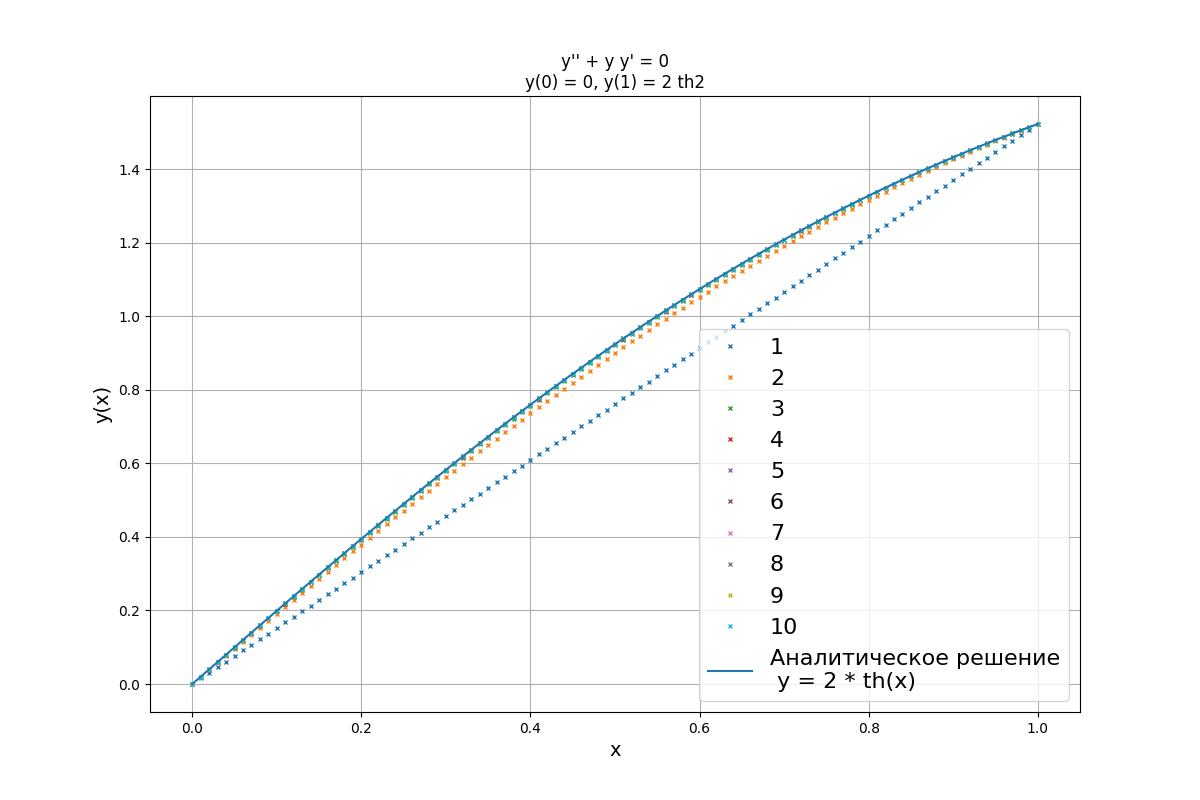
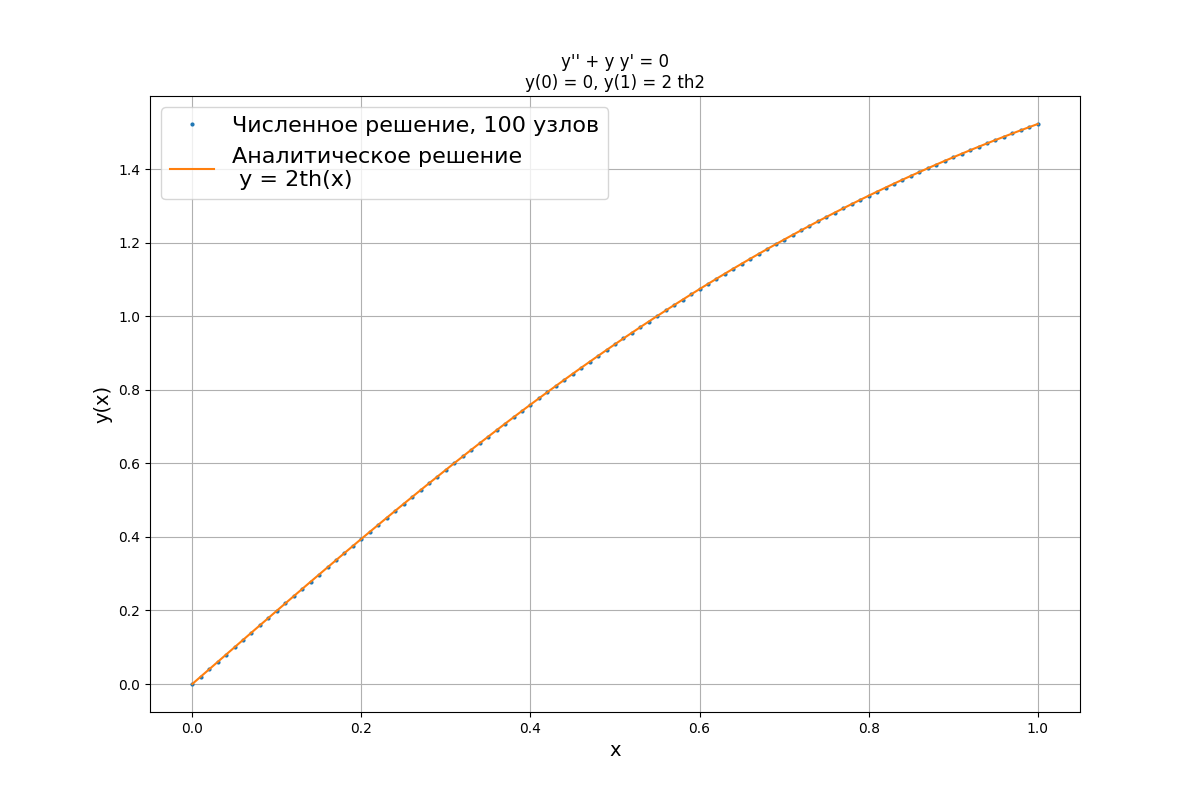
Update Non linear bvp solver and tests

diff --git a/tests/test_nonlinear_bvp3.cpp b/tests/test_nonlinear_bvp3.cpp
@@ -8,10 +8,10 @@
 #include "functional"
 #include <cmath>
 #include <fstream>
-#include <algorithm>
 
-TEST(NONLINEARBOUNDARYVALUEPROBLEM1, TEST1) {
-std::function<double(double)> f = [](double x) { return 0.; };
+
+TEST(NONLINEARBOUNDARYVALUEPROBLEM1, NONLINEARBOUNDARYVALUEPROBLEM1) {
+std::function<double(double, double)> f = [](double x, double y) { return 0.; };
 
 std::function<double(double, double, double)> a = [](double x, double y, double y_dev) { return y; };
 
@@ -24,7 +24,7 @@ double right_bound_x = 1.;
 double left_bound_y = 0.;
 double right_bound_y = 2. * tanh(1.);
 
-int n_iterations = 10;
+int n_iterations = 7;
 int max_number_of_splits = 100;
 std::vector<double> y(max_number_of_splits + 1);
 double h = (right_bound_x - left_bound_x)/max_number_of_splits;
@@ -33,11 +33,11 @@ std::fstream file;
 file.open("test_nonlin_3.txt", std::fstream::out);
 
 //x
-for(int j=0; j < y.size(); ++j){
-    file << left_bound_x + h * j << " ";
-}
-file << '\n';
-
+//for(int j=0; j < y.size(); ++j){
+//    file << left_bound_x + h * j << " ";
+//}
+//file << '\n';
+//
 //analytical solution
 for(int i = 0; i < y.size(); ++i){
 y[i] = y_func(left_bound_x + h * i);
@@ -45,96 +45,140 @@ file << y[i] << " ";
 }
 file << '\n';
 
+//for(int k = 10; k < max_number_of_splits; k+=10){
+    std::pair<std::vector<double>, std::vector<double>> solution;
 
-std::vector<std::vector<double>> solution(n_iterations);
-
-std::vector<double> y_0 = InitialApproach(left_bound_x, right_bound_x,
-                    left_bound_y, right_bound_y,
-                    max_number_of_splits);
+    std::pair<std::vector<double>, std::vector<double>> y_0_y_0_der = InitialApproach(left_bound_x, right_bound_x,
+                                                                                      left_bound_y, right_bound_y,
+                                                                                      max_number_of_splits);
 
 //approach
-solution[0] = y_0;
-for(int j=0; j < y.size(); ++j){
-        file << solution[0][j] << " ";
-}
-file << '\n';
+    solution = y_0_y_0_der;
 
-for(int i = 1; i < n_iterations; ++i){
-    std::pair<Slae::Matrix::ThreeDiagonalMatrix, std::vector<double>> matrix =
-            ExpMatrixNonLinearBVP3(left_bound_x, right_bound_x,
-                                   left_bound_y, right_bound_y,
-                                   max_number_of_splits, a, b, f, solution[i-1]);
-    solution[i] = Slae::Solvers::solveThreeDiagonal(matrix.first, matrix.second);
-    for(int j=0; j < y.size(); ++j){
-        file << solution[i][j] << " ";
+    for(int i = 1; i < n_iterations; ++i){
+        std::pair<Slae::Matrix::ThreeDiagonalMatrix, std::vector<double>> matrix =
+                ExpMatrixNonLinearBVP3(left_bound_x, right_bound_x,
+                                       left_bound_y, right_bound_y,
+                                       max_number_of_splits, a, b, f, solution);
+        solution.first = Slae::Solvers::solveThreeDiagonal(matrix.first, matrix.second);
     }
-    file << '\n';
-}
+    for(int i = 0; i < solution.first.size(); ++i){
+        file<< solution.first[i]<< " ";
+
+    }
+    file<<"\n";
+    for(int i = 0; i < solution.first.size(); ++i){
+
+        file << left_bound_x + h * i << " ";
+    }
+    file<<"\n";
+//}
+
 
 file.close();
 }
 
-TEST(NONLINEARBOUNDARYVALUEPROBLEM2, TEST2) {
-    std::function<double(double)> f = [](double x) { return 0.; };
+TEST(NONLINEARBOUNDARYVALUEPROBLEM_ERROR2, NONLINEARBOUNDARYVALUEPROBLEM_ERROR2) {
+    std::function<double(double, double)> f = [](double x, double y) { return -1/(2*y); };
 
-    std::function<double(double, double, double)> a = [](double x, double y, double y_dev) { return -exp(y); };
+    std::function<double(double, double, double)> a = [](double x, double y, double y_der) { return 1/(2*y) * y_der; };
 
-    std::function<double(double, double, double)> b = [](double x, double y, double y_dev) { return 0.; };
+    std::function<double(double, double, double)> b = [](double x, double y, double y_der) { return 0.; };
 
-    std::function<double(double)> y_func = [](double x) { return -log(2. * exp(log(-x)) - 1); };
 
-    double left_bound_x = -1./4;
-    double right_bound_x = 1./4;
-    double left_bound_y = y_func(left_bound_x);
-    double right_bound_y = y_func(right_bound_x);
+    double left_bound_x = 0.;
+    double right_bound_x = 5.;
+    double left_bound_y = 1.;
+    double right_bound_y = 6.;
 
-    int n_iterations = 10;
-    int max_number_of_splits = 100;
+    int n_iterations = 7;
+    int max_number_of_splits = 200;
     std::vector<double> y(max_number_of_splits + 1);
     double h = (right_bound_x - left_bound_x)/max_number_of_splits;
 
     std::fstream file;
     file.open("test_nonlin_3_2.txt", std::fstream::out);
 
-//x
-    for(int j=0; j < y.size(); ++j){
-        file << left_bound_x + h * j << " ";
-    }
-    file << '\n';
 
-//analytical solution
-    for(int i = 0; i < y.size(); ++i){
-        y[i] = y_func(left_bound_x + h * i);
-        file << y[i] << " ";
-    }
-    file << '\n';
+for(int k = 10; k < max_number_of_splits; k+=10) {
+    std::pair<std::vector<double>, std::vector<double>> solution;
 
-
-    std::vector<std::vector<double>> solution(n_iterations);
-
-    std::vector<double> y_0 = InitialApproach(left_bound_x, right_bound_x,
-                                              left_bound_y, right_bound_y,
-                                              max_number_of_splits);
+    std::pair<std::vector<double>, std::vector<double>> y_0_y_0_der = InitialApproach(left_bound_x, right_bound_x,
+                                                                                      left_bound_y, right_bound_y,
+                                                                                      k);
 
 //approach
-    solution[0] = y_0;
-    for(int j=0; j < y.size(); ++j){
-        file << solution[0][j] << " ";
-    }
-    file << '\n';
+    solution = y_0_y_0_der;
 
-    for(int i = 1; i < n_iterations; ++i){
+    for (int i = 0; i < n_iterations; ++i) {
         std::pair<Slae::Matrix::ThreeDiagonalMatrix, std::vector<double>> matrix =
                 ExpMatrixNonLinearBVP3(left_bound_x, right_bound_x,
                                        left_bound_y, right_bound_y,
-                                       max_number_of_splits, a, b, f, solution[i-1]);
-        solution[i] = Slae::Solvers::solveThreeDiagonal(matrix.first, matrix.second);
-        for(int j=0; j < y.size(); ++j){
-            file << solution[i][j] << " ";
-        }
-        file << '\n';
+                                       k, a, b, f, solution);
+        solution.first = Slae::Solvers::solveThreeDiagonal(matrix.first, matrix.second);
+        solution.second = y_der(solution.first, k);
     }
-
+    std::vector<double> err(k);
+    for(int i=0; i<k; i++){
+        err[i] = abs(solution.first[i] - y[i]);
+    }
+    double max = *std::max_element(err.begin(), err.end());
+    file << k << " "<< max << " ";
+    file << std::endl;
+}
     file.close();
 }
 
+TEST(NONLINEARBOUNDARYVALUEPROBLEM3, NONLINEARBOUNDARYVALUEPROBLEM3) {
+    std::function<double(double, double)> f = [](double x, double y) { return -1/(2*y); };
+
+    std::function<double(double, double, double)> a = [](double x, double y, double y_der) { return 1/(2*y) * y_der; };
+
+    std::function<double(double, double, double)> b = [](double x, double y, double y_der) { return 0.; };
+
+
+    double left_bound_x = 0.;
+    double right_bound_x = 5.;
+    double left_bound_y = 1.;
+    double right_bound_y = 6.;
+
+    int n_iterations = 7;
+    int max_number_of_splits = 200;
+    std::vector<double> y(max_number_of_splits + 1);
+    double h = (right_bound_x - left_bound_x)/max_number_of_splits;
+
+    std::fstream file;
+    file.open("test_nonlin_3_3.txt", std::fstream::out);
+
+//x
+for(int j=0; j < y.size(); ++j){
+    file << left_bound_x + h * j << " ";
+}
+file << '\n';
+
+//for(int k = 10; k < max_number_of_splits; k+=10){
+std::pair<std::vector<double>, std::vector<double>> solution;
+
+std::pair<std::vector<double>, std::vector<double>> y_0_y_0_der = InitialApproach(left_bound_x, right_bound_x,
+                                          left_bound_y, right_bound_y,
+                                          max_number_of_splits);
+
+//approach
+solution = y_0_y_0_der;
+
+for(int i = 0; i < n_iterations; ++i){
+    std::pair<Slae::Matrix::ThreeDiagonalMatrix, std::vector<double>> matrix =
+            ExpMatrixNonLinearBVP3(left_bound_x, right_bound_x,
+                                   left_bound_y, right_bound_y,
+                                   max_number_of_splits, a, b, f, solution);
+    solution.first = Slae::Solvers::solveThreeDiagonal(matrix.first, matrix.second);
+    solution.second = y_der(solution.first, max_number_of_splits);
+}
+
+for(int i = 0; i < solution.first.size(); ++i){
+    file<< solution.first[i]<< " ";
+}
+file<<"\n";
+
+file.close();
+}

diff --git a/src/my_project/matrix/NonLinearBoundaryValueProblemMatrix3.hpp b/src/my_project/matrix/NonLinearBoundaryValueProblemMatrix3.hpp
@@ -47,7 +47,7 @@ double Calc<COLUMNINDEX::C_THIRD>::calc(std::function<double(double, double, dou
     return 1/(h*h) + a(x, y, y_der)/(2*h);
 }
 
-std::vector<double> InitialApproach(double left_bound_x, double right_bound_x,
+std::pair<std::vector<double>, std::vector<double>> InitialApproach(double left_bound_x, double right_bound_x,
                                     double left_bound_y, double right_bound_y,
                                     unsigned int number_of_splits){
     // шаг разбиения
@@ -60,7 +60,17 @@ std::vector<double> InitialApproach(double left_bound_x, double right_bound_x,
         y_0[i] = left_bound_y + (left_bound_x + h * i - left_bound_x) /
                                 (right_bound_x - left_bound_x) * (right_bound_y - left_bound_y);
     }
-    return y_0;
+    std::vector<double> y_0_der(number_of_splits + 1, (right_bound_y - left_bound_y) / (right_bound_x - left_bound_x));
+    return {y_0, y_0_der};
+}
+
+std::vector<double> y_der(std::vector<double> y_prev, double h){
+    std::vector<double> y_der(y_prev.size());
+    for(int i = 0; i < y_prev.size() - 1; ++i){
+        y_der[i] = (y_prev[i+1] - y_prev[i]) / h;
+    }
+    y_der.back() = y_der[y_der.size()-2];
+    return y_der;
 }
 
 std::pair<Slae::Matrix::ThreeDiagonalMatrix, std::vector<double>>
@@ -69,7 +79,7 @@ ExpMatrixNonLinearBVP3(double left_bound_x, double right_bound_x,
                        unsigned int number_of_splits,
                        std::function<double(double, double, double)>& a,
                        std::function<double(double, double, double)>& b,
-                       std::function<double(double)>& f, std::vector<double> y_prev){
+                       std::function<double(double, double)>& f, std::pair<std::vector<double>, std::vector<double>> y_prev){
 
     // шаг разбиения
     auto h = (right_bound_x - left_bound_x) / number_of_splits;
@@ -83,15 +93,15 @@ ExpMatrixNonLinearBVP3(double left_bound_x, double right_bound_x,
 
     //Заполение остальных
     for(unsigned int i = 1; i < data.rows() - 1; ++i){
-        data.fill_row(i, Calc<COLUMNINDEX::C_FIRST>::calc(a, b, h, left_bound_x + h * i, y_prev[i], 0.),
-                      Calc<COLUMNINDEX::C_SECOND>::calc(a, b, h, left_bound_x + h * i, y_prev[i], 0.),
-                      Calc<COLUMNINDEX::C_THIRD>::calc(a, b, h, left_bound_x + h * i, y_prev[i], 0.));
+        data.fill_row(i, Calc<COLUMNINDEX::C_FIRST>::calc(a, b, h, left_bound_x + h * i, y_prev.first[i], y_prev.second[i]),
+                      Calc<COLUMNINDEX::C_SECOND>::calc(a, b, h, left_bound_x + h * i, y_prev.first[i], y_prev.second[i]),
+                      Calc<COLUMNINDEX::C_THIRD>::calc(a, b, h, left_bound_x + h * i, y_prev.first[i], y_prev.second[i]));
     }
 
     std::vector<double> y(number_of_splits + 1);
     y[0] = left_bound_y;
     for(unsigned int i = 1; i < y.size() - 1; ++i){
-        y[i] = f(left_bound_x + h * i);
+        y[i] = f(left_bound_x + h * i, y_prev.first[i]);
     }
     y.back() = right_bound_y;
     return {data, y};

diff --git a/src/my_project/graphics/NonlinearBVP/max_error3.py b/src/my_project/graphics/NonlinearBVP/max_error3.py
@@ -11,7 +11,18 @@ y_analytic = data[1, :]
 
 max_abs_errors = [np.max(np.abs(data[i,:] - y_analytic)) for i in range(2, data.shape[0])]
 print(max_abs_errors)
-ax.plot([i for i in range(n_iterations)], max_abs_errors, '-')
+# ax.plot([i for i in range(n_iterations)], max_abs_errors, '-')
+x = [i for i in range(1, n_iterations + 1)]
+
+x = [np.log(i) for i in x]
+y = [np.log(i) for i in max_abs_errors]
+ax.plot(x, y, '.')
+t = np.polyfit(x, y, 1)
+f = np.poly1d(t)
+xp = np.linspace(np.min(x), np.max(x), 100)
+print('---')
+print(f)
+# plt.plot(xp, f(xp), '-', label=f'Коэффициент наклона: k = {round(f[1], 2)}')
 
 ax.grid()
 plt.title('Зависимость модуля максимальной ошибки от количества итераций\n'

diff --git a/src/my_project/graphics/NonlinearBVP/functions3.py b/src/my_project/graphics/NonlinearBVP/functions3.py
@@ -4,12 +4,11 @@ plt.figure()
 fig, ax = plt.subplots(figsize=(12,8))
 data = np.loadtxt(f'/Users/arseniy/Desktop/SLAE4SEM/cmake-build-debug/tests/test_nonlin_3.txt')
 
-n_iterations = data.shape[0] - 2
-for i in range(2, data.shape[0]):
-    ax.plot(data[0, :], data[i, :], 'x', label=f'{i - 1}', markersize=3)
+
+ax.plot(data[2, :], data[1, :], '.', label=f'Численное решение, 100 узлов', markersize=4)
 
 
-ax.plot(data[0, :], data[1, :], '-', label='Аналитическое решение\n y = 2th(x)')
+ax.plot(data[2, :], data[0, :], '-', label='Аналитическое решение\n y = 2th(x)')
 plt.legend(fontsize=16)
 ax.grid()
 plt.title('y\'\' + y y\' = 0\ny(0) = 0, y(1) = 2 th2')

diff --git a/src/my_project/graphics/NonlinearBVP/functions3_3.py b/src/my_project/graphics/NonlinearBVP/functions3_3.py
@@ -1,0 +1,18 @@
+import matplotlib.pyplot as plt
+import numpy as np
+plt.figure()
+fig, ax = plt.subplots(figsize=(12,8))
+data = np.loadtxt(f'/Users/arseniy/Desktop/SLAE4SEM/cmake-build-debug/tests/test_nonlin_3_3.txt')
+
+
+ax.plot(data[0, :], data[1, :], '.', label=f'Численное решение, 100 узлов', markersize=4)
+
+
+# ax.plot(data[2, :], data[0, :], '-', label='Аналитическое решение\n y = 2th(x)')
+plt.legend(fontsize=16)
+ax.grid()
+plt.title('y\'\' + 1/2 y y\' = -1/2y\ny(0) = 1, y(5) = 6')
+plt.xlabel('x', fontsize=14)
+plt.ylabel('y(x)', fontsize=14)
+# plt.savefig('graphic_nonlin3_yx_3.png')
+plt.show()
